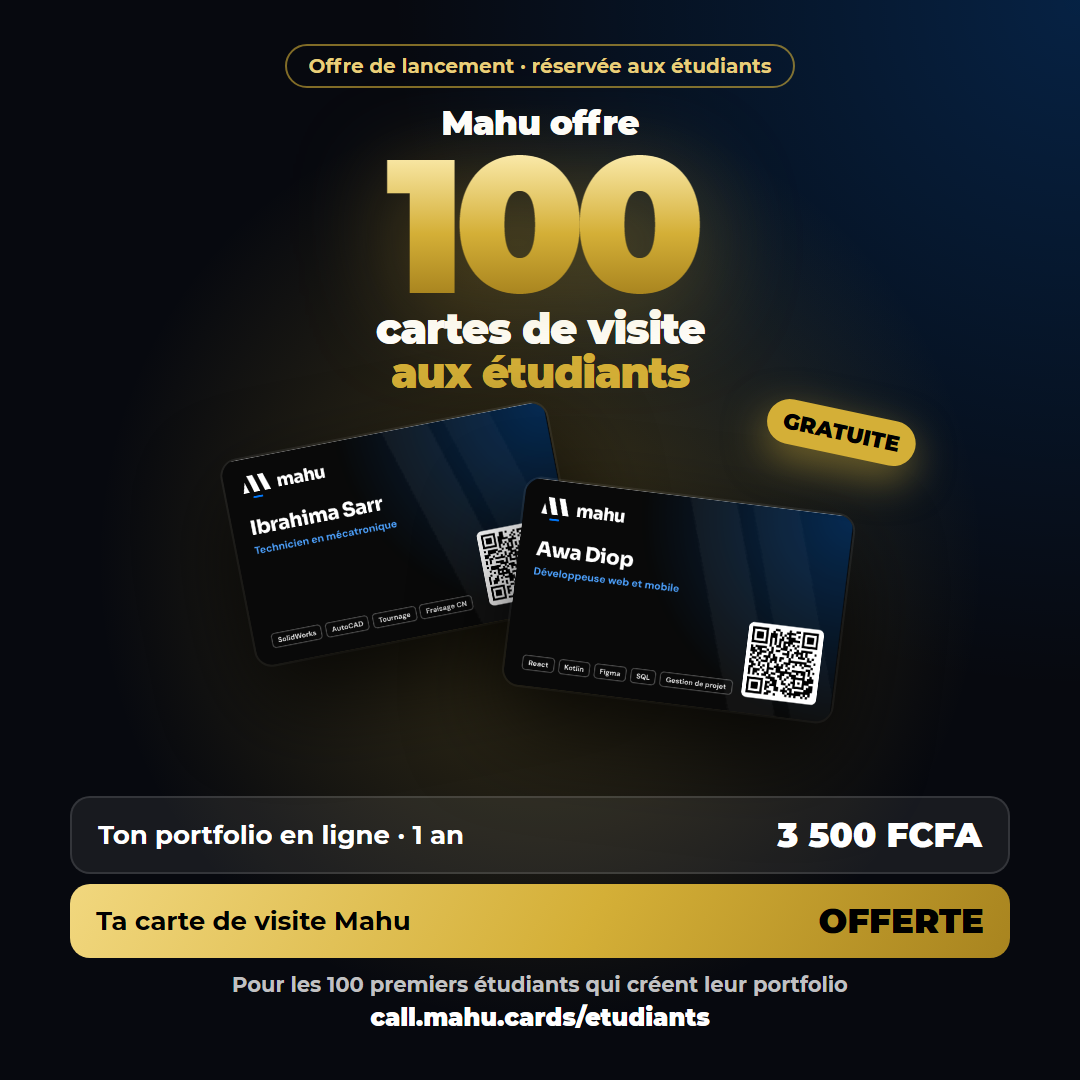
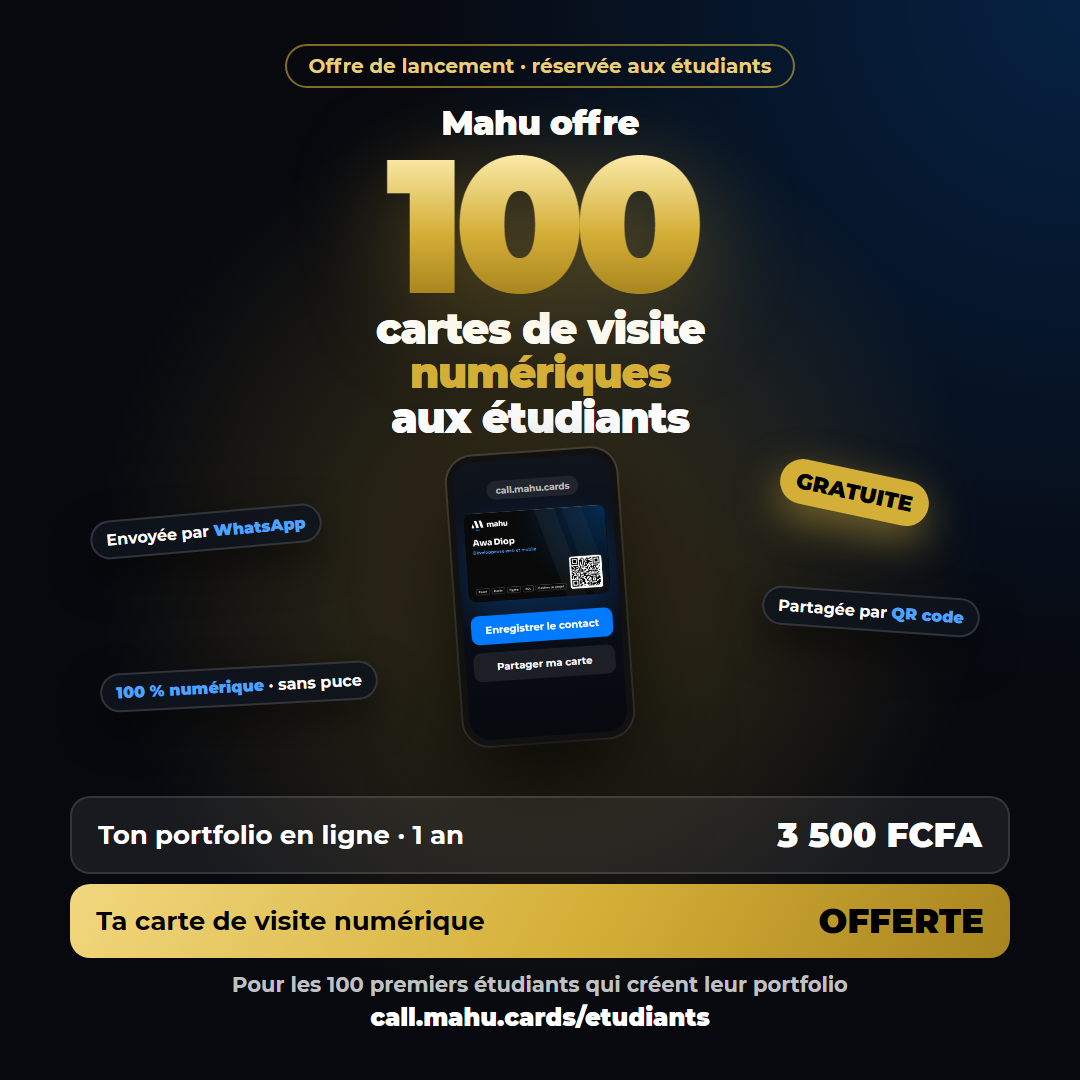
Launch offer: say digital business card (no chip) on the sales page and posters

Changed region(s): [[0.0917, 0.3056, 0.9167, 0.6722], [0.3056, 0.825, 0.4583, 0.8861], [0.4278, 0.6722, 0.4583, 0.7028]]

diff --git a/components/portfolio/students-landing.tsx b/components/portfolio/students-landing.tsx
@@ -34,7 +34,7 @@ const FREE_CARDS = 100
 const included = [
   { icon: FolderKanban, title: "Ton portfolio en ligne", text: "Projets, compétences, expériences, formation et CV, sur une page à ton nom." },
   { icon: Video, title: "Les vidéos de tes réalisations", text: "Ton appli, ta maquette, ton exposé : la vidéo se lit directement dans ton portfolio." },
-  { icon: CreditCard, title: "Ta carte de visite pro", text: "Ta carte Mahu en ligne (un lien et un QR code). Offerte en version imprimée aux 100 premiers inscrits." },
+  { icon: CreditCard, title: "Ta carte de visite numérique", text: "Ta carte Mahu en ligne : un lien et un QR code à partager. Offerte aux 100 premiers inscrits." },
   { icon: BadgeCheck, title: "5 modèles, valable 1 an", text: "Change de modèle quand tu veux, ton contenu suit. Un seul paiement." },
 ]
 
@@ -137,14 +137,14 @@ function ShineButton({ href, children, className = "" }: { href: string; childre
   )
 }
 
-/** Lancement : carte imprimee + 1 an de carte de visite Mahu offerts aux 100 premiers. */
+/** Lancement : carte de visite numerique Mahu (1 an) offerte aux 100 premiers. */
 function FreeCards({ left, className = "" }: { left: number; className?: string }) {
   const taken = FREE_CARDS - left
   return (
     <div className={`rounded-2xl border border-[#d4af37]/35 bg-[#d4af37]/[0.08] p-4 ${className}`}>
       <p className="flex items-start gap-2 text-sm font-semibold text-[#f1d77e]">
         <Gift className="mt-0.5 h-4 w-4 shrink-0" />
-        <span>Offert aux 100 premiers inscrits : ta carte imprimée + 1 an de carte de visite Mahu.</span>
+        <span>Offert aux 100 premiers inscrits : ta carte de visite numérique Mahu, pendant 1 an.</span>
       </p>
       <div className="mt-3 h-2 overflow-hidden rounded-full bg-white/10">
         <motion.div
@@ -259,7 +259,7 @@ function Hero({ freeCardsLeft }: { freeCardsLeft: number }) {
             </ShineButton>
             <div className="leading-tight">
               <p className="text-3xl font-black">{PORTFOLIO_PRICE}</p>
-              <p className="text-sm text-white/55">portfolio + carte pro · 1 an</p>
+              <p className="text-sm text-white/55">portfolio + carte numérique · 1 an</p>
             </div>
           </motion.div>
 
@@ -579,10 +579,10 @@ function FinalCta({ freeCardsLeft }: { freeCardsLeft: number }) {
           <div className="relative grid items-center gap-8 lg:grid-cols-[minmax(0,1fr)_auto]">
             <div>
               <h2 className="text-3xl font-black leading-tight sm:text-5xl">Ton avenir mérite une belle vitrine.</h2>
-              <p className="mt-3 text-lg font-medium text-black/70">Portfolio + vidéos + carte de visite pro, pendant 1 an.</p>
+              <p className="mt-3 text-lg font-medium text-black/70">Portfolio + vidéos + carte de visite numérique, pendant 1 an.</p>
               {freeCardsLeft > 0 && (
                 <p className="mt-3 inline-flex items-center gap-2 rounded-full bg-black/10 px-4 py-1.5 text-sm font-bold">
-                  <Gift className="h-4 w-4" /> Carte imprimée offerte · plus que {freeCardsLeft} sur {FREE_CARDS}
+                  <Gift className="h-4 w-4" /> Carte de visite numérique offerte · plus que {freeCardsLeft} sur {FREE_CARDS}
                 </p>
               )}
               <p className="mt-6 text-5xl font-black tracking-tight sm:text-6xl">
@@ -617,7 +617,7 @@ function StickyMobileCta({ freeCardsLeft }: { freeCardsLeft: number }) {
           <div className="leading-tight">
             <p className="font-black">{PORTFOLIO_PRICE}</p>
             <p className="text-xs text-white/55">
-              {freeCardsLeft > 0 ? `Carte imprimée offerte · plus que ${freeCardsLeft}` : "portfolio + carte pro · 1 an"}
+              {freeCardsLeft > 0 ? `Carte numérique offerte · plus que ${freeCardsLeft}` : "portfolio + carte numérique · 1 an"}
             </p>
           </div>
           <Link href={ORDER} className="rounded-xl bg-[#d4af37] px-5 py-3 font-bold text-black">

diff --git a/app/etudiants/page.tsx b/app/etudiants/page.tsx
@@ -2,11 +2,11 @@ import { StudentsLanding } from "@/components/portfolio/students-landing"
 
 // Offre etudiante : portfolio numerique + carte de visite professionnelle Mahu,
 // valables un an, pour 3 500 FCFA (produit "portfolio-etudiant"). Au lancement,
-// la carte imprimee est offerte aux 100 premiers inscrits (compteur backend).
+// la carte de visite numerique est offerte aux 100 premiers inscrits (compteur backend).
 export const metadata = {
   title: "Portfolio étudiant · Mahu",
   description:
-    "Ton portfolio en ligne avec les vidéos de tes réalisations et ta carte de visite professionnelle Mahu, valables un an, pour 3 500 FCFA. Carte imprimée offerte aux 100 premiers inscrits.",
+    "Ton portfolio en ligne avec les vidéos de tes réalisations et ta carte de visite numérique Mahu, valables un an, pour 3 500 FCFA. Carte numérique offerte aux 100 premiers inscrits.",
 }
 
 // Rendu a chaque visite : le compteur doit refleter les inscriptions.

diff --git a/assets/banners/mahu-etudiants/src/gen_offre.py b/assets/banners/mahu-etudiants/src/gen_offre.py
@@ -1,4 +1,4 @@
-"""Affiches de l'offre de lancement : 100 cartes de visite offertes aux etudiants
+"""Affiches de l'offre de lancement : 100 cartes de visite numeriques offertes aux etudiants
 qui creent leur portfolio (portfolio 3 500 FCFA, carte gratuite). Usage : python gen_offre.py"""
 import os, subprocess
 HERE = os.path.dirname(os.path.abspath(__file__)); OUT = os.path.dirname(HERE)
@@ -22,11 +22,24 @@ body {{ position:relative; width:{w}px; height:{h}px; overflow:hidden; font-fami
   filter:drop-shadow(0 18px 50px rgba(212,175,55,.35)); }}
 .what {{ font-size:{62 if s else 42}px; font-weight:900; line-height:1.05; letter-spacing:-.03em; }}
 .what span {{ color:#d4af37; }}
-.visual {{ position:relative; height:{560 if s else 300}px; margin-top:{50 if s else 14}px; }}
-.card {{ position:absolute; width:{560 if s else 330}px; border-radius:{26 if s else 16}px; box-shadow:0 40px 90px rgba(0,0,0,.75), 0 0 0 2px rgba(255,255,255,.08); }}
-.c1 {{ left:50%; top:{40 if s else 20}px; transform:translateX(-{78 if s else 92}%) rotate(-11deg); }}
-.c2 {{ left:50%; top:{150 if s else 86}px; transform:translateX(-{18 if s else 8}%) rotate(7deg); }}
-.free {{ position:absolute; left:50%; top:{0 if s else 0}px; transform:translateX({120 if s else 150}%) rotate(12deg); background:#d4af37; color:#000;
+/* carte affichee dans un telephone : 100 % numerique, pas une carte a puce */
+.visual {{ position:relative; height:{540 if s else 290}px; margin-top:{40 if s else 12}px; }}
+.phone {{ position:absolute; left:50%; top:0; transform:translateX(-50%) rotate(-4deg); width:{320 if s else 170}px; height:{540 if s else 290}px;
+  border-radius:{48 if s else 26}px; background:#111; padding:{12 if s else 6}px; box-shadow:0 40px 90px rgba(0,0,0,.75), 0 0 0 2px rgba(255,255,255,.14); }}
+.screen {{ width:100%; height:100%; border-radius:{38 if s else 21}px; overflow:hidden; background:linear-gradient(180deg,#0f141d,#07090f);
+  padding:{40 if s else 20}px {16 if s else 8}px 0; }}
+.bar {{ margin:0 auto; width:max-content; border-radius:999px; background:rgba(255,255,255,.08); color:rgba(255,255,255,.7); font-size:{17 if s else 9}px; font-weight:700; padding:{8 if s else 4}px {16 if s else 9}px; }}
+.dcard {{ display:block; width:100%; margin-top:{26 if s else 12}px; border-radius:{16 if s else 8}px; box-shadow:0 18px 40px rgba(0,122,255,.25); }}
+.btn {{ margin-top:{16 if s else 8}px; border-radius:{16 if s else 8}px; padding:{16 if s else 8}px; text-align:center; font-size:{19 if s else 10}px; font-weight:700; }}
+.b1 {{ margin-top:{30 if s else 14}px; background:#007AFF; color:#fff; }}
+.b2 {{ background:rgba(255,255,255,.08); color:#fff; }}
+.chip {{ position:absolute; border-radius:999px; background:rgba(15,19,28,.92); border:2px solid rgba(255,255,255,.14); color:#fff;
+  font-size:{26 if s else 16}px; font-weight:700; padding:{14 if s else 8}px {24 if s else 14}px; white-space:nowrap; box-shadow:0 18px 40px rgba(0,0,0,.5); }}
+.chip b {{ color:#4da3ff; }}
+.k1 {{ left:{28 if s else 90}px; top:{70 if s else 60}px; transform:rotate(-5deg); }}
+.k2 {{ right:{28 if s else 100}px; top:{250 if s else 140}px; transform:rotate(4deg); }}
+.k3 {{ left:{36 if s else 100}px; top:{400 if s else 215}px; transform:rotate(-3deg); }}
+.free {{ position:absolute; right:{50 if s else 150}px; top:{40 if s else 18}px; transform:rotate(12deg); background:#d4af37; color:#000;
   font-weight:900; font-size:{34 if s else 22}px; padding:{14 if s else 9}px {26 if s else 16}px; border-radius:999px; box-shadow:0 14px 40px rgba(212,175,55,.5); }}
 .offer {{ position:absolute; left:{80 if s else 70}px; right:{80 if s else 70}px; bottom:{250 if s else 48}px; }}
 .row {{ display:flex; align-items:center; justify-content:space-between; gap:20px; border-radius:{28 if s else 20}px; padding:{26 if s else 16}px {34 if s else 26}px; }}
@@ -43,16 +56,23 @@ body {{ position:relative; width:{w}px; height:{h}px; overflow:hidden; font-fami
   <span class="pill">Offre de lancement · réservée aux étudiants</span>
   <p class="lead">Mahu offre</p>
   <p class="hundred">100</p>
-  <p class="what">cartes de visite<br><span>aux étudiants</span></p>
+  <p class="what">cartes de visite<br><span>numériques</span><br>aux étudiants</p>
 </div>
 <div class="visual">
-  <img class="card c1" src="carte-ibrahima.png">
-  <img class="card c2" src="carte-awa.png">
+  <div class="phone"><div class="screen">
+    <div class="bar">call.mahu.cards</div>
+    <img class="dcard" src="carte-awa.png">
+    <div class="btn b1">Enregistrer le contact</div>
+    <div class="btn b2">Partager ma carte</div>
+  </div></div>
+  <span class="chip k1">Envoyée par <b>WhatsApp</b></span>
+  <span class="chip k2">Partagée par <b>QR code</b></span>
+  <span class="chip k3"><b>100 % numérique</b> · sans puce</span>
   <span class="free">GRATUITE</span>
 </div>
 <div class="offer">
   <div class="row r1"><span class="label">Ton portfolio en ligne · 1 an</span><span class="val">3 500 FCFA</span></div>
-  <div class="row r2"><span class="label">Ta carte de visite Mahu</span><span class="val">OFFERTE</span></div>
+  <div class="row r2"><span class="label">Ta carte de visite numérique</span><span class="val">OFFERTE</span></div>
   <p class="note">Pour les 100 premiers étudiants qui créent leur portfolio</p>
   <p class="url">call.mahu.cards/etudiants</p>
 </div>
